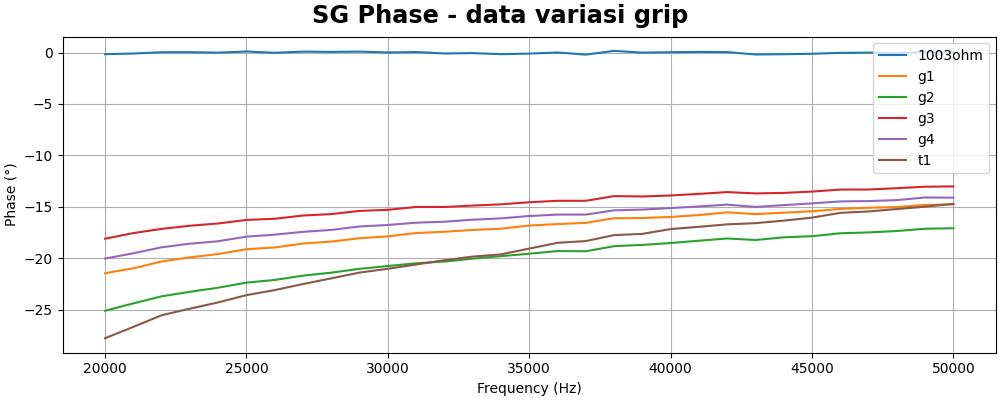
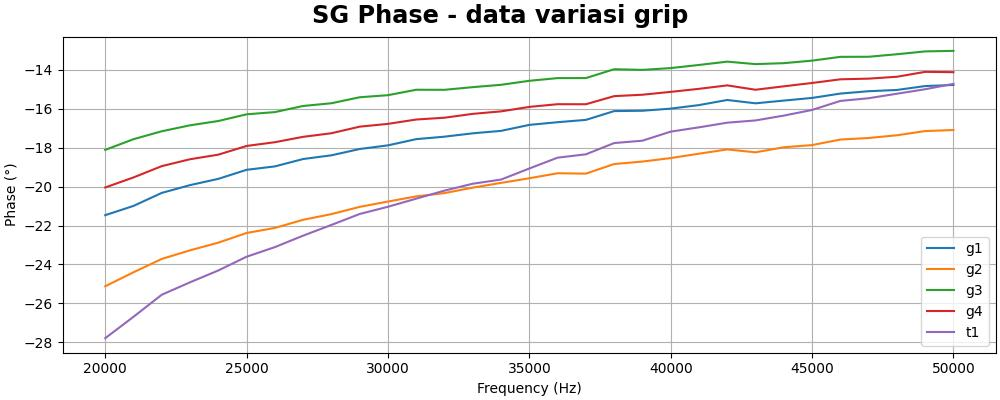
update result for new calibration data

diff --git a/media/hand to hand/TB Actual Body Composition.md b/media/hand to hand/TB Actual Body Composition.md
@@ -1,8 +1,7 @@
 | ID	| FFM (kg)	| FFM (%)	| FM (kg)	| FM (%)	| TBW (kg)	| TBW (%)	|
 | :-	| -:	| -:	| -:	| -:	| -:	| -:	|
-| 1003ohm	| 41.423	| 71.419	| 16.577	| 28.581	| 30.239	| 52.136	|
-| g1	| 44.736	| 77.131	| 13.264	| 22.869	| 32.657	| 56.306	|
-| g2	| 43.587	| 75.151	| 14.413	| 24.849	| 31.819	| 54.860	|
-| g3	| 44.497	| 76.719	| 13.503	| 23.281	| 32.483	| 56.005	|
-| g4	| 45.582	| 78.590	| 12.418	| 21.410	| 33.275	| 57.371	|
-| t1	| 36.362	| 62.694	| 21.638	| 37.306	| 26.545	| 45.766	|
+| g1	| 44.656	| 76.993	| 13.344	| 23.007	| 32.599	| 56.205	|
+| g2	| 43.520	| 75.034	| 14.480	| 24.966	| 31.769	| 54.775	|
+| g3	| 44.420	| 76.586	| 13.580	| 23.414	| 32.426	| 55.908	|
+| g4	| 45.493	| 78.436	| 12.507	| 21.564	| 33.210	| 57.258	|
+| t1	| 36.348	| 62.669	| 21.652	| 37.331	| 26.534	| 45.748	|

diff --git a/media/hand to hand/TB Body Composition.md b/media/hand to hand/TB Body Composition.md
@@ -1,8 +1,7 @@
 | ID	| FFM (kg)	| FFM (%)	| FM (kg)	| FM (%)	| TBW (kg)	| TBW (%)	|
 | :-	| -:	| -:	| -:	| -:	| -:	| -:	|
-| 1003ohm	| 41.081	| 72.072	| 15.919	| 27.928	| 29.989	| 52.613	|
-| g1	| 44.351	| 77.809	| 12.649	| 22.191	| 32.376	| 56.801	|
-| g2	| 43.218	| 75.820	| 13.782	| 24.180	| 31.549	| 55.349	|
-| g3	| 44.116	| 77.396	| 12.884	| 22.604	| 32.204	| 56.499	|
-| g4	| 45.186	| 79.274	| 11.814	| 20.726	| 32.986	| 57.870	|
-| t1	| 36.084	| 63.305	| 20.916	| 36.695	| 26.341	| 46.212	|
+| g1	| 44.727	| 77.116	| 13.273	| 22.884	| 32.651	| 56.294	|
+| g2	| 43.580	| 75.138	| 14.420	| 24.862	| 31.813	| 54.851	|
+| g3	| 44.489	| 76.705	| 13.511	| 23.295	| 32.477	| 55.994	|
+| g4	| 45.572	| 78.573	| 12.428	| 21.427	| 33.268	| 57.358	|
+| t1	| 36.361	| 62.691	| 21.639	| 37.309	| 26.543	| 45.764	|
